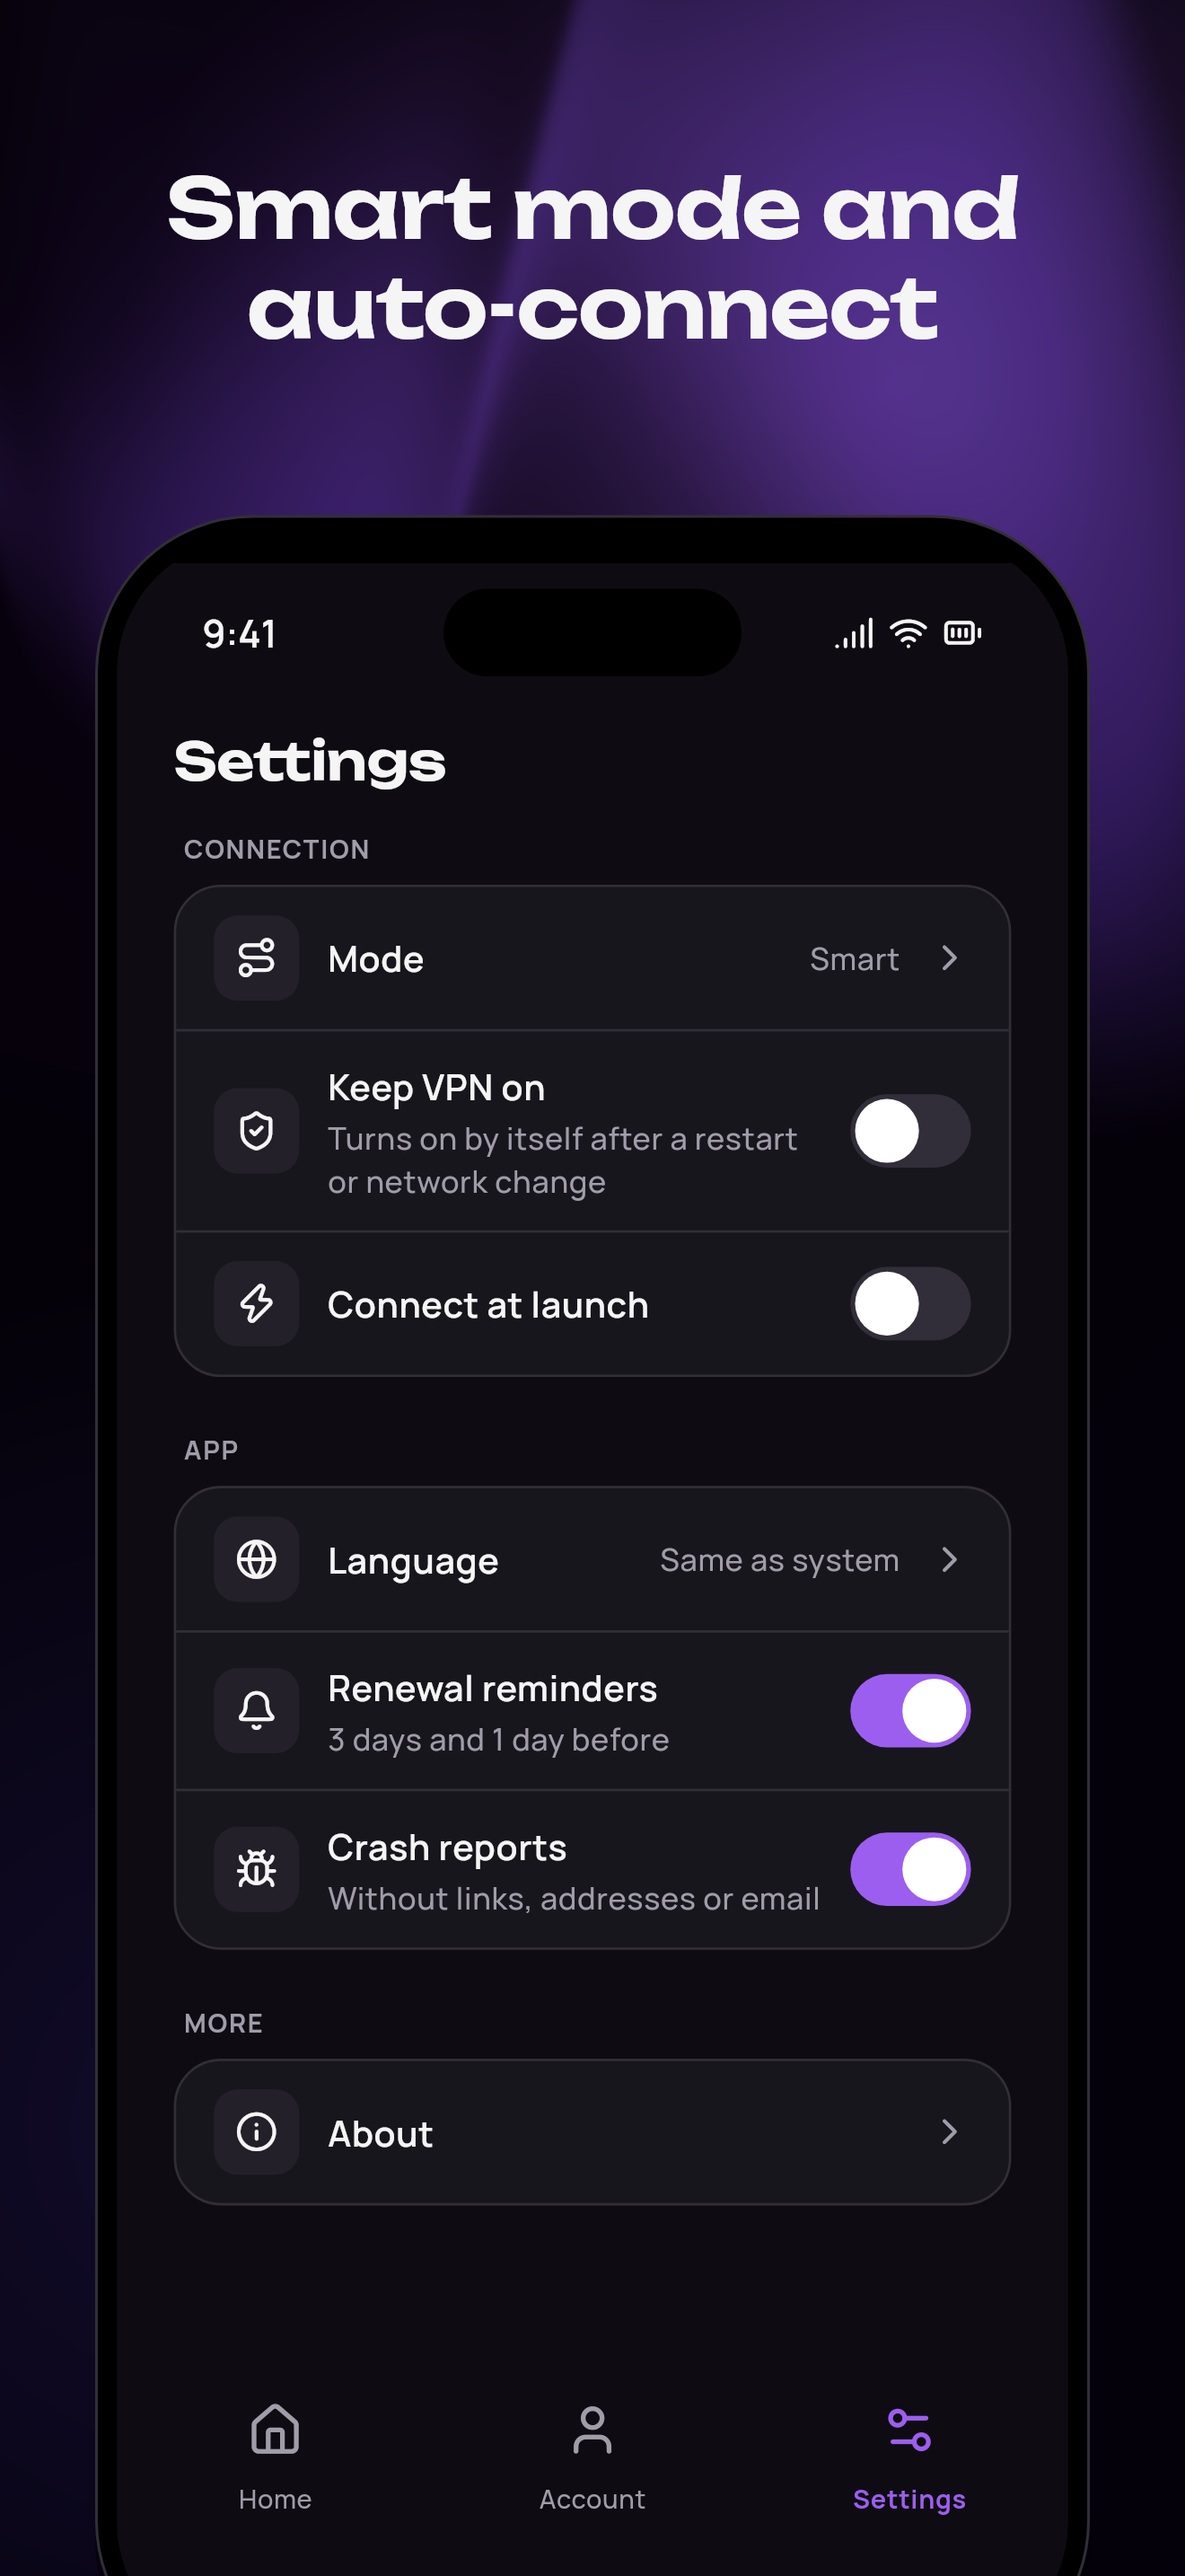
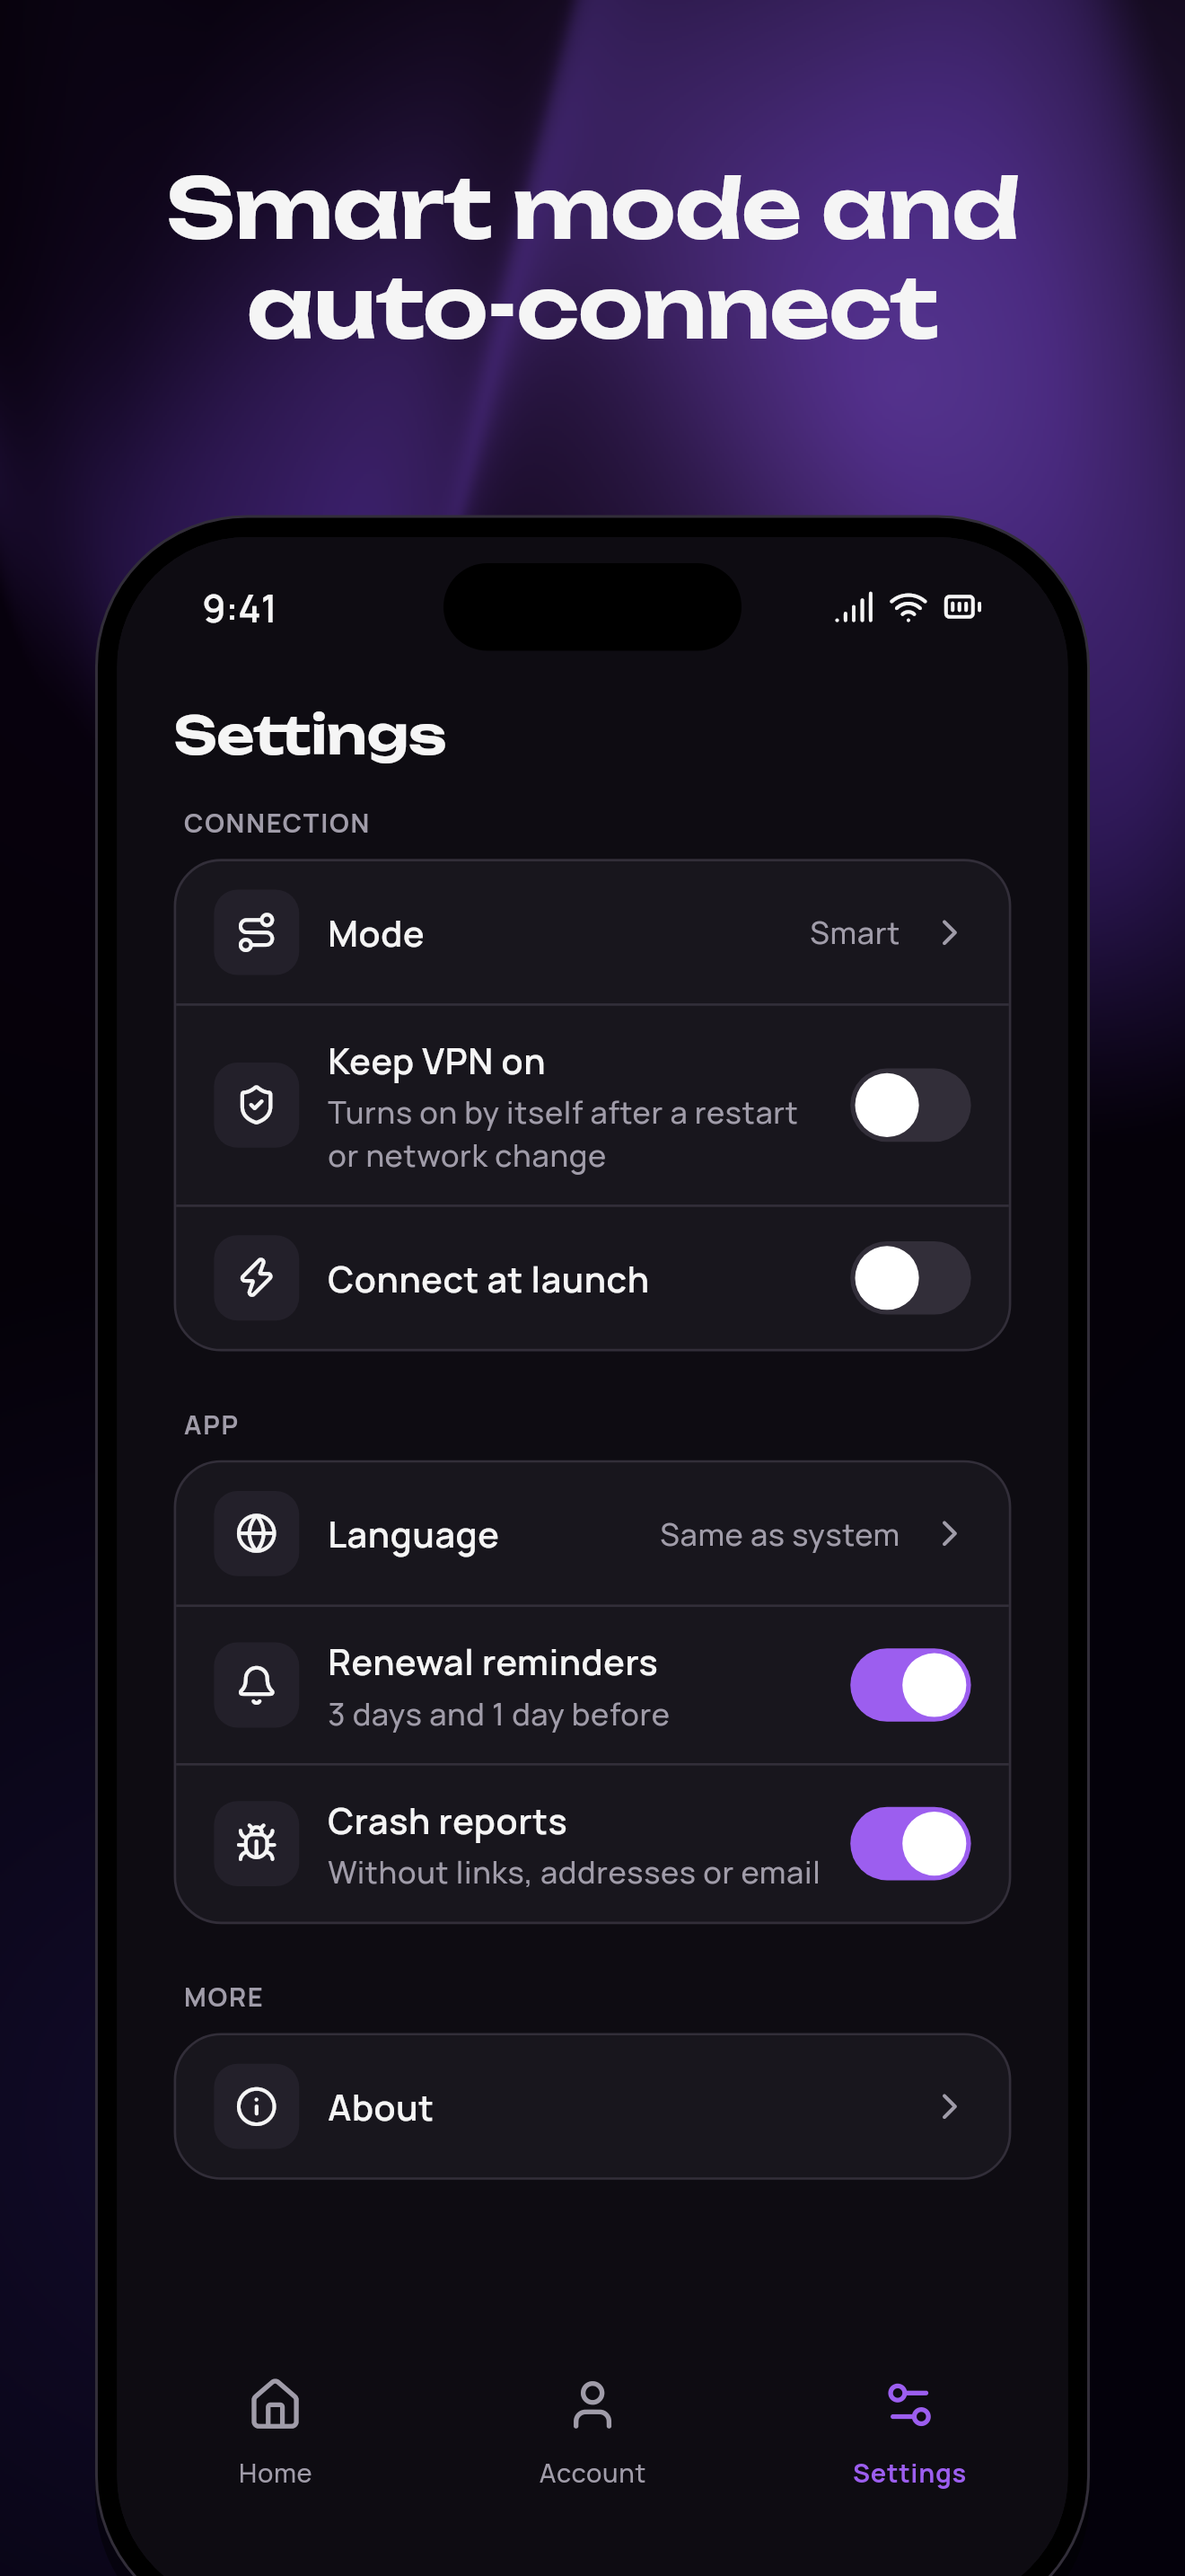
fix(store): an even bezel around the mockup's screen

diff --git a/tool/store/store.dart b/tool/store/store.dart
@@ -144,7 +144,9 @@ class StoreFrame extends StatelessWidget {
       canvas.width * 0.86,
     );
     final bezel = width * 0.022;
-    final radius = device.corner * width / device.screen.width + bezel;
+    // The screen inside the bezel keeps the device's proportions.
+    final scale = (width - 2 * bezel) / device.screen.width;
+    final radius = device.corner * scale + bezel;
     return Directionality(
       textDirection: TextDirection.ltr,
       child: ShaderBackdrop(
@@ -169,7 +171,7 @@ class StoreFrame extends StatelessWidget {
               top: captionHeight,
               left: (canvas.width - width) / 2,
               width: width,
-              height: width / device.screen.aspectRatio,
+              height: device.screen.height * scale + 2 * bezel,
               child: DecoratedBox(
                 decoration: BoxDecoration(
                   color: Colors.black,
